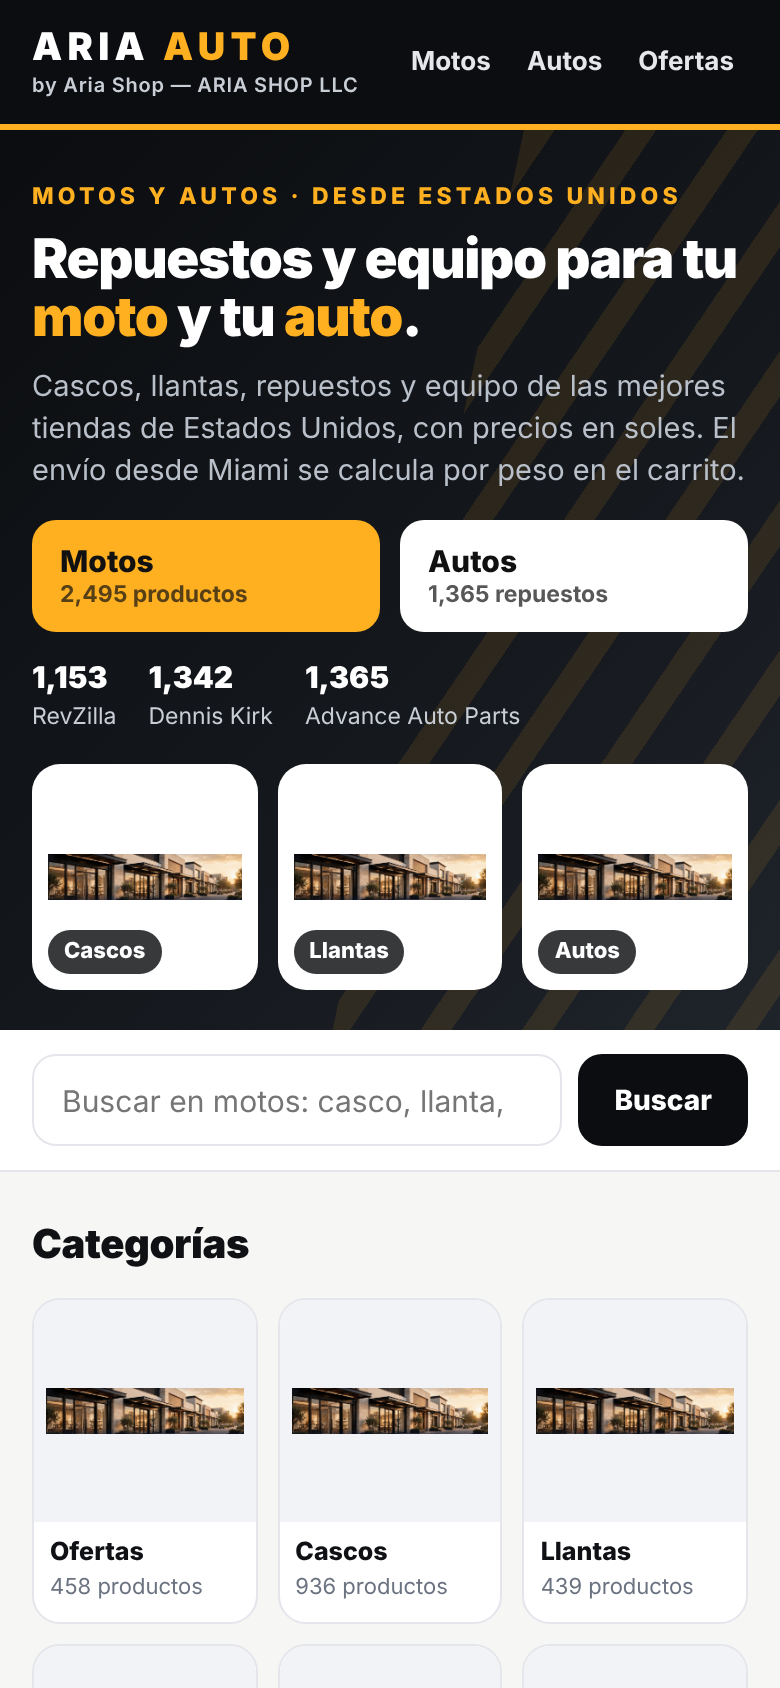
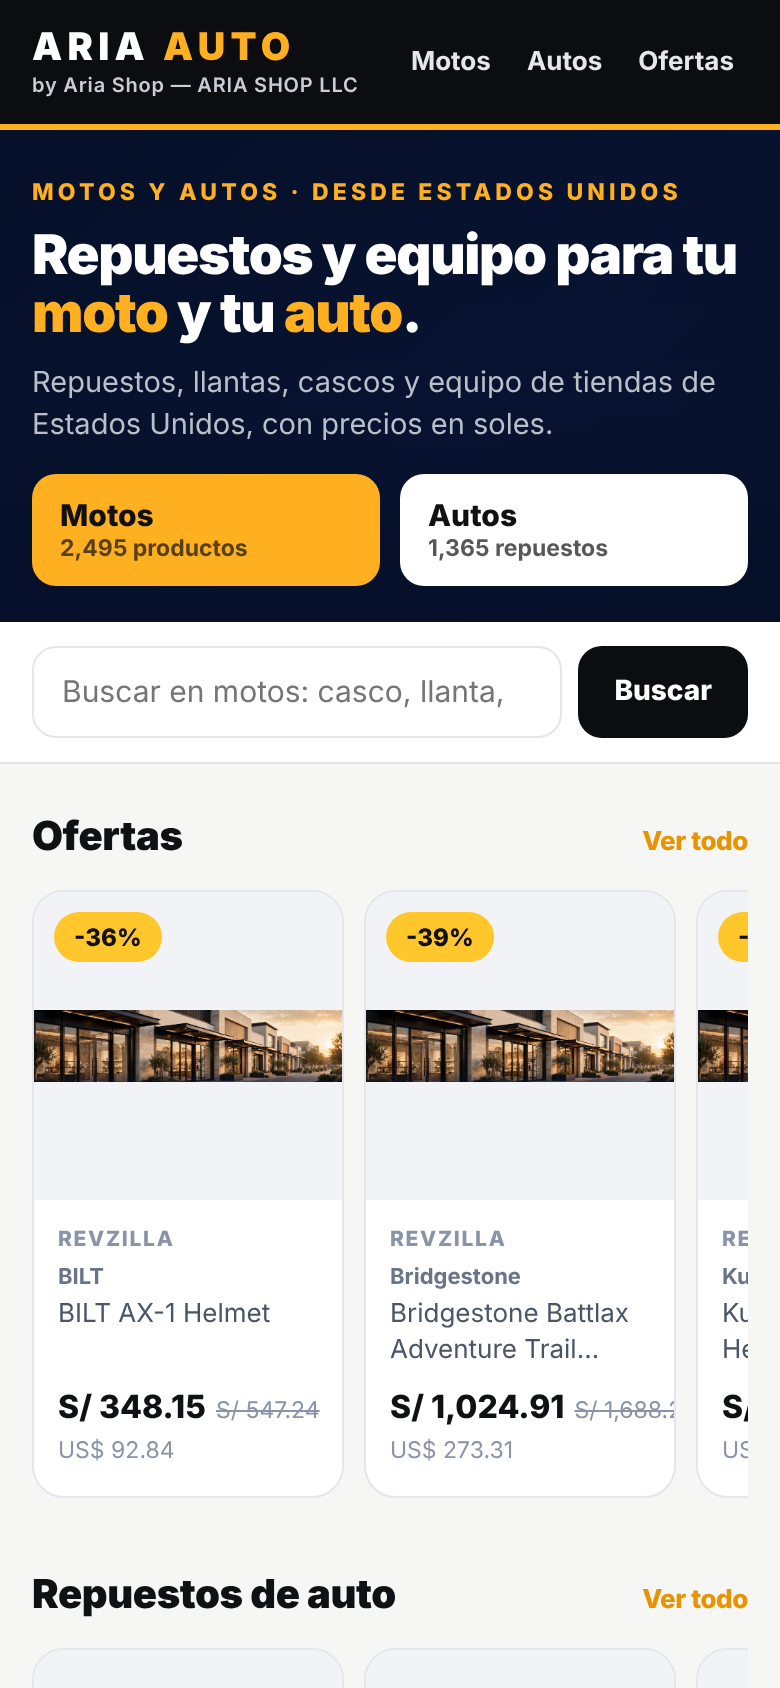
Aria Auto: a store, not a landing page; a slot for a real garage photo
#443 c.6431103818 (Danny's iPhone review of #504).

- Store first: the hero is shorter, and right after it come the Ofertas
  shelf and the auto-parts shelf, with real photos and prices (soles
  big). The vehicle finder follows as a tool inside the store ("Busca
  repuestos para tu vehículo", which opens auto.html's picker), then
  the categories, then the rest of the shelves. On a phone the first
  screen now shows products with prices.
- The hero is blue, with a slot for a real garage photograph
  (assets/aria-auto/garage-hero.jpg) behind a deep blue scrim, so the
  white headline always reads. The file is not in the repo yet: a real
  captured photo has to be supplied. Until then the slot removes itself
  and the blue stands. The existing assets/aria-auto/shop-bg.jpg was
  not used because its provenance (captured or generated) is unknown.
- aria-auto-front-tests 8/0 (first screen holds products, deals and
  auto parts first, finder after them, photo slot present).
  price-parity 11/0, motos-thin 7/0. Mountain battery: phone first
  cards 4.7 s, input delay 65 ms; Chromebook 0.69 s, 18 ms; zero
  catalogue requests.

Claude-Session: https://claude.ai/code/session_01WBGm789mHS7HxvsUJLot6y

diff --git a/aria-auto.html b/aria-auto.html
@@ -48,9 +48,14 @@
   .aa-nav a:hover{background:var(--steel)}
   @media(max-width:560px){ .aa-nav a.opt{display:none} .aa-nav a{padding:8px 7px;font-size:13px} .aa-mark{font-size:19px} }
   /* ---- hero ---- */
-  .aa-hero{background:linear-gradient(135deg,var(--asphalt) 0%,var(--asphalt2) 60%,#1F242B 100%);color:#fff;position:relative;overflow:hidden}
-  .aa-hero::before{content:"";position:absolute;inset:auto -20% -40% auto;width:70%;height:140%;background:repeating-linear-gradient(115deg,rgba(255,176,32,.10) 0 14px,transparent 14px 46px);transform:skewX(-12deg);pointer-events:none}
-  .aa-hero .wrap{position:relative;display:grid;gap:16px;padding:20px 16px 20px}
+  .aa-hero{background:linear-gradient(135deg,#071533 0%,#0B1F4A 60%,#0A1838 100%);color:#fff;position:relative;overflow:hidden}
+  /* THE GARAGE (#443 c.6431103818: "a backdrop of a garage / an auto shop
+     where it's blue"). A real photograph only -- never generated. The
+     photo sits behind a deep blue scrim so the white headline always
+     reads; a missing file leaves the blue, never a broken image. */
+  .aa-hero-photo{position:absolute;inset:0;width:100%;height:100%;object-fit:cover;z-index:0}
+  .aa-hero::after{content:"";position:absolute;inset:0;z-index:0;background:linear-gradient(180deg,rgba(5,14,38,.78) 0%,rgba(5,14,38,.70) 55%,rgba(5,14,38,.90) 100%)}
+  .aa-hero .wrap{position:relative;z-index:1;display:grid;gap:14px;padding:18px 16px 18px}
   @media(min-width:860px){ .aa-hero .wrap{grid-template-columns:1.1fr .9fr;align-items:center;padding:48px 16px} }
   .aa-kicker{display:inline-block;font-size:11.5px;font-weight:800;letter-spacing:.18em;text-transform:uppercase;color:var(--amber)}
   .aa-hero h1{font-size:clamp(27px,7vw,52px);font-weight:900;letter-spacing:-.025em;line-height:1.04;margin:8px 0 10px}
@@ -64,6 +69,9 @@
   .aa-proof{display:flex;gap:16px;flex-wrap:wrap;margin-top:12px;font-size:11.5px;color:var(--chrome)}
   .aa-proof strong{color:#fff;font-size:15px;display:block;font-weight:900}
   .aa-mosaic{display:grid;grid-template-columns:repeat(3,1fr);gap:10px}
+  /* On a phone the store's own shelves follow the hero at once; the
+     photo strip is for the wide screen. */
+  @media(max-width:859px){ .aa-mosaic{display:none} .aa-proof{display:none} }
   .aa-mosaic a{background:#fff;border-radius:14px;aspect-ratio:1/1;overflow:hidden;position:relative;display:block}
   .aa-mosaic img{position:absolute;inset:0;width:100%;height:100%;object-fit:contain;padding:8px}
   .aa-mosaic span{position:absolute;left:8px;bottom:8px;background:rgba(11,13,16,.82);color:#fff;font-size:11px;font-weight:800;padding:3px 8px;border-radius:999px}
@@ -104,6 +112,11 @@
   .price .pen i{display:block;height:16px;width:45%;border-radius:5px;background:var(--line);margin:3px 0}
   /* Yellow is for sale badges only. */
   .badge{position:absolute;top:10px;left:10px;z-index:1;font-size:12px;font-weight:800;padding:4px 10px;border-radius:999px;background:var(--yellow);color:#111}
+  /* ---- the vehicle finder, a tool inside the store ---- */
+  .aa-fit{display:flex;gap:14px;align-items:center;justify-content:space-between;flex-wrap:wrap;margin:18px 0 4px;padding:16px;border-radius:16px;background:#0B1F4A;color:#fff}
+  .aa-fit h2{margin:0 0 4px;font-size:17px;font-weight:900}
+  .aa-fit p{margin:0;font-size:13.5px;color:#C7D2E8}
+  .aa-fit-go{display:inline-flex;align-items:center;height:46px;padding:0 18px;border-radius:12px;background:var(--amber);color:#111;font-weight:800;text-decoration:none;white-space:nowrap}
   /* ---- how it works + footer ---- */
   .aa-how{display:grid;gap:10px;margin:26px 0 8px}
   @media(min-width:760px){ .aa-how{grid-template-columns:repeat(3,1fr)} }
@@ -140,11 +153,12 @@
 </header>
 
 <section class="aa-hero" aria-label="Aria Auto">
+  <img class="aa-hero-photo" src="assets/aria-auto/garage-hero.jpg" alt="" aria-hidden="true" decoding="async" fetchpriority="low" onerror="this.remove()">
   <div class="wrap">
     <div>
       <span class="aa-kicker">Motos y autos · Desde Estados Unidos</span>
       <h1>Repuestos y equipo para tu <em>moto</em> y tu <em>auto</em>.</h1>
-      <p id="aaLede">Cascos, llantas, repuestos y equipo de las mejores tiendas de Estados Unidos, con precios en soles. El envío desde Miami se calcula por peso en el carrito.</p>
+      <p id="aaLede">Repuestos, llantas, cascos y equipo de tiendas de Estados Unidos, con precios en soles.</p>
       <div class="aa-ctas">
         <a class="aa-cta moto" href="motos.html">Motos <small id="aaMotoCount"></small></a>
         <a class="aa-cta auto" href="auto.html">Autos <small id="aaAutoCount"></small></a>
@@ -165,6 +179,18 @@
 </div>
 
 <main class="wrap">
+  <!-- STORE FIRST (#443 c.6431103818: "that just looks like a landing
+       page"). The first shelves -- Ofertas, then the auto parts -- come
+       right after the hero; the vehicle finder is a tool inside the
+       store, then the categories, then the rest of the shelves. -->
+  <div id="aaRailsTop"></div>
+  <section class="aa-fit" aria-labelledby="fitH">
+    <div>
+      <h2 id="fitH">Busca repuestos para tu vehículo</h2>
+      <p>Elige año, marca y modelo y te mostramos lo que le calza.</p>
+    </div>
+    <a class="aa-fit-go" href="auto.html">Elegir mi vehículo</a>
+  </section>
   <section class="aa-sec" aria-labelledby="catsH">
     <h2 id="catsH">Categorías</h2>
     <div class="aa-tiles" id="aaTiles"></div>
@@ -485,15 +511,18 @@ function sizedImageUrl(url, w){
       tiles += '<a class="aa-tile" href="' + escRaw(r.href) + '"><div class="ph">' + eagerImg(r.img, r.label) + '</div><b>' + esc(r.label) + '</b><small>' + fmtCount(r.count) + ' productos</small></a>';
     });
     document.getElementById('aaTiles').innerHTML = tiles;
-    var html = '';
-    rails.forEach(function(r){
+    function railHTML(r){
       var cards = r.cards.map(cardHTML).join('');
-      if (!cards) return;
-      html += '<section class="aa-sec" id="' + escRaw(r.key) + '" aria-label="' + esc(r.label) + '"><h2>' + esc(r.label)
+      if (!cards) return '';
+      return '<section class="aa-sec" id="' + escRaw(r.key) + '" aria-label="' + esc(r.label) + '"><h2>' + esc(r.label)
         + ' <a href="' + escRaw(r.href) + '">Ver todo</a></h2><div class="rail">' + cards + '</div></section>';
-    });
-    var box = document.getElementById('aaRails');
-    box.innerHTML = html;
+    }
+    /* The store's first shelves: the deals, then the auto parts. */
+    var TOP = ['ofertas', 'autopartes'];
+    var top = document.getElementById('aaRailsTop'), box = document.getElementById('aaRails');
+    top.innerHTML = TOP.map(function(k){ return rails.filter(function(r){ return r.key === k; })[0]; }).filter(Boolean).map(railHTML).join('');
+    box.innerHTML = rails.filter(function(r){ return TOP.indexOf(r.key) < 0; }).map(railHTML).join('');
+    watchPhotos(top);
     watchPhotos(box);
   }
 
